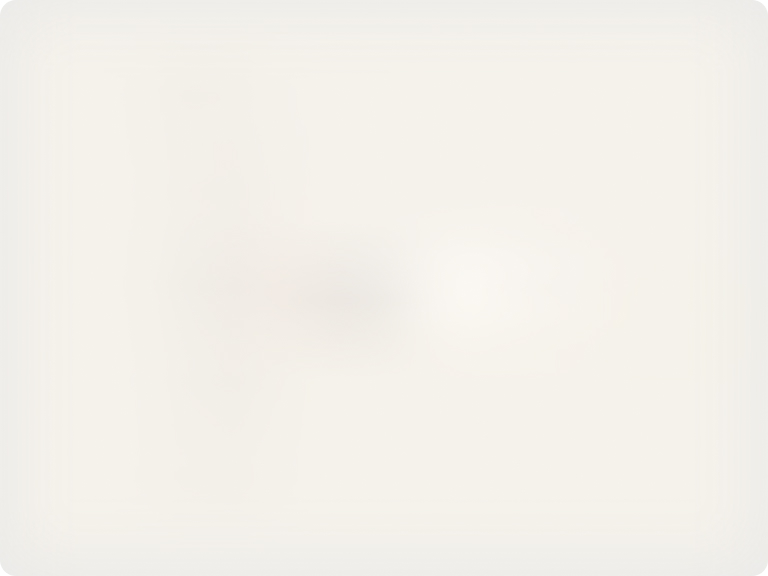
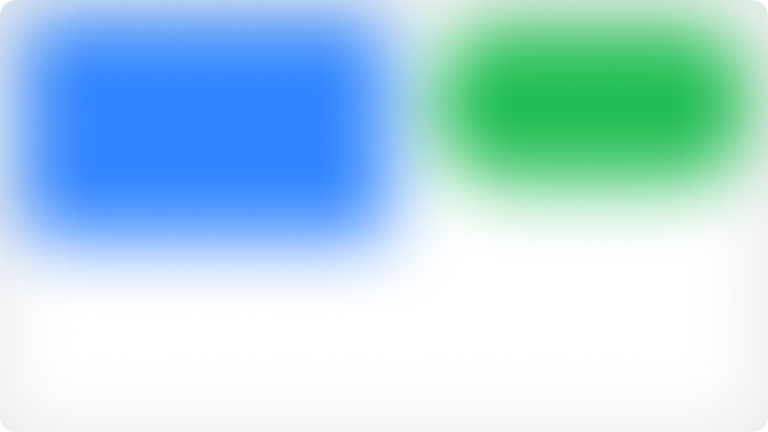
Mobile Feed

diff --git a/src/components/VideoCard.css b/src/components/VideoCard.css
@@ -4,10 +4,22 @@
   overflow: hidden;
   /* Prevent flex/block from adding extra space below the video */
   line-height: 0;
+  /* Hidden until the poster has loaded; then fade + slide up. */
+  opacity: 0;
+  transform: translateY(8px);
+  transition:
+    opacity 0.3s cubic-bezier(0.5, 0, 0, 1),
+    transform 0.3s cubic-bezier(0.5, 0, 0, 1);
 }
 
-/* Inner outline as a pseudo-element so it never affects layout size */
-.video-card::after {
+.video-card--loaded {
+  opacity: 1;
+  transform: translateY(0);
+}
+
+/* Inner outline as a pseudo-element so it never affects layout size.
+   Only shown after the card is loaded — no empty outlined placeholders. */
+.video-card--loaded::after {
   content: '';
   position: absolute;
   inset: 0;
@@ -17,11 +29,21 @@
   z-index: 2;
 }
 
-.video-card video,
-.video-card mux-video {
+/* Poster drives the card's intrinsic size; video overlays on top. */
+.video-card__poster {
   width: 100%;
   height: auto;
   display: block;
+}
+
+.video-card video,
+.video-card mux-video {
+  position: absolute;
+  inset: 0;
+  width: 100%;
+  height: 100%;
+  display: block;
+  z-index: 1;
 }
 
 .video-card__info {
@@ -57,12 +79,14 @@ body.is-dark .video-card__info {
   display: none;
 }
 
-.video-card:hover .video-card__info {
-  opacity: 1;
-  transform: translateY(0);
-  transition:
-    opacity 0.25s cubic-bezier(0.5, 0, 0, 1),
-    transform 0.25s cubic-bezier(0.5, 0, 0, 1);
+@media (hover: hover) and (min-width: 481px) {
+  .video-card:hover .video-card__info {
+    opacity: 1;
+    transform: translateY(0);
+    transition:
+      opacity 0.25s cubic-bezier(0.5, 0, 0, 1),
+      transform 0.25s cubic-bezier(0.5, 0, 0, 1);
+  }
 }
 
 .video-card__name,

diff --git a/src/components/VideoCard.jsx b/src/components/VideoCard.jsx
@@ -21,6 +21,17 @@ export default function VideoCard({
   const rootRef = useRef(null)
   const originalRectRef = useRef(null)
   const [isVisible, setIsVisible] = useState(false)
+  const [posterLoaded, setPosterLoaded] = useState(false)
+
+  // Reveal the card (fade + slight upward motion) only after the poster img
+  // below has actually rendered. Double rAF guarantees the hidden initial
+  // state is painted once before the class flip, so cached posters don't
+  // "pop in" without a transition.
+  const handlePosterLoad = () => {
+    requestAnimationFrame(() => {
+      requestAnimationFrame(() => setPosterLoaded(true))
+    })
+  }
 
   // Snapshot the card's viewport rect while it's still in normal feed layout.
   // Once transforms kick in, getBoundingClientRect would return the *moved*
@@ -182,15 +193,21 @@ export default function VideoCard({
   return (
     <div
       ref={rootRef}
-      className={`video-card ${isOrigin ? 'video-card--origin' : ''}`}
+      className={`video-card ${isOrigin ? 'video-card--origin' : ''} ${posterLoaded ? 'video-card--loaded' : ''}`}
       data-grid-id={id}
       onDoubleClick={handleDoubleClick}
       style={transitionStyle ?? undefined}
     >
+      <img
+        className="video-card__poster"
+        src={`/thumbnails/${id}.jpg`}
+        alt=""
+        onLoad={handlePosterLoad}
+        onError={handlePosterLoad}
+      />
       <mux-video
         ref={videoRef}
         playback-id={playbackId}
-        poster={`/thumbnails/${id}.jpg`}
         muted
         loop
         playsinline=""
